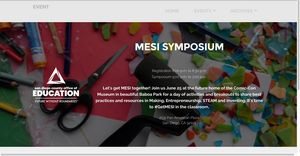
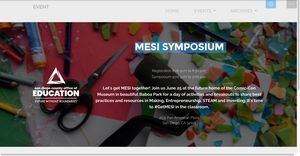
event link change

Changed region(s): [[0.42, 0.1795, 0.78, 0.359], [0.87, 0.0, 0.99, 0.0769]]

diff --git a/mesiwithus.html b/mesiwithus.html
@@ -25,7 +25,7 @@
   
 </head>
 <body>
-  <section id="ext_menu-w" data-rv-view="29">
+  <section id="ext_menu-w" data-rv-view="17">
 
     <nav class="navbar navbar-dropdown transparent navbar-fixed-top bg-color">
         <div class="container">
@@ -38,7 +38,7 @@
                         <div class="hamburger-icon"></div>
                     </button>
 
-                    <ul class="nav-dropdown collapse pull-xs-right nav navbar-nav navbar-toggleable-sm" id="exCollapsingNavbar"><li class="nav-item"><a class="nav-link link" href="index.html#msg-box5-q">HOME</a></li><li class="nav-item dropdown"><a class="nav-link link dropdown-toggle" href="index.html#features1-j" data-toggle="dropdown-submenu" aria-expanded="false">EVENTS</a><div class="dropdown-menu"><a class="dropdown-item" href="mesisymposium.html" aria-expanded="false">MESI Symposium<br></a></div></li><li class="nav-item dropdown open"><a class="nav-link link dropdown-toggle" href="index.html#features1-j" aria-expanded="true" data-toggle="dropdown-submenu">ARCHIVES</a><div class="dropdown-menu"><a class="dropdown-item" href="mesiwithus.html" aria-expanded="false">Get MESI With US</a></div></li></ul>
+                    <ul class="nav-dropdown collapse pull-xs-right nav navbar-nav navbar-toggleable-sm" id="exCollapsingNavbar"><li class="nav-item"><a class="nav-link link" href="index.html#msg-box5-q">HOME</a></li><li class="nav-item dropdown open"><a class="nav-link link dropdown-toggle" href="index.html#features1-j" data-toggle="dropdown-submenu" aria-expanded="true">EVENTS</a><div class="dropdown-menu"><a class="dropdown-item" href="mesisymposium.html" aria-expanded="false">MESI Symposium<br></a></div></li><li class="nav-item dropdown"><a class="nav-link link dropdown-toggle" href="index.html#features1-j" aria-expanded="false" data-toggle="dropdown-submenu">ARCHIVES</a><div class="dropdown-menu"><a class="dropdown-item" href="mesiwithus.html" aria-expanded="false">Get MESI With US</a></div></li></ul>
                     <button hidden="" class="navbar-toggler navbar-close" type="button" data-toggle="collapse" data-target="#exCollapsingNavbar">
                         <div class="close-icon"></div>
                     </button>
@@ -51,7 +51,7 @@
 
 </section>
 
-<section class="engine"><a href="https://mobirise.info/k">develop your own website</a></section><section class="mbr-section mbr-section__container article mbr-after-navbar" id="header3-17" data-rv-view="24" style="background-color: rgb(255, 255, 255); padding-top: 20px; padding-bottom: 60px;">
+<section class="engine"><a href="https://mobirise.info/u">bootstrap html templates</a></section><section class="mbr-section mbr-section__container article mbr-after-navbar" id="header3-17" data-rv-view="12" style="background-color: rgb(255, 255, 255); padding-top: 20px; padding-bottom: 60px;">
     <div class="container">
         <div class="row">
             <div class="col-xs-12">
@@ -62,7 +62,7 @@
     </div>
 </section>
 
-<section class="mbr-section article mbr-parallax-background" id="msg-box8-1k" data-rv-view="26" style="background-image: url(assets/images/screen-shot-2019-02-19-at-11.54.38-am-600x409.png); padding-top: 120px; padding-bottom: 40px;">
+<section class="mbr-section article mbr-parallax-background" id="msg-box8-1k" data-rv-view="14" style="background-image: url(assets/images/screen-shot-2019-02-19-at-11.54.38-am-600x409.png); padding-top: 120px; padding-bottom: 40px;">
 
     <div class="mbr-overlay" style="opacity: 0.5; background-color: rgb(34, 34, 34);">
     </div>
@@ -78,7 +78,7 @@
 
 </section>
 
-<section class="mbr-section" id="msg-box4-1a" data-rv-view="33" style="background-color: rgb(242, 242, 242); padding-top: 40px; padding-bottom: 0px;">
+<section class="mbr-section" id="msg-box4-1a" data-rv-view="21" style="background-color: rgb(242, 242, 242); padding-top: 40px; padding-bottom: 0px;">
 
     
     <div class="container">
@@ -112,7 +112,7 @@
 
 </section>
 
-<section class="mbr-section" id="msg-box4-1b" data-rv-view="36" style="background-color: rgb(255, 255, 255); padding-top: 40px; padding-bottom: 40px;">
+<section class="mbr-section" id="msg-box4-1b" data-rv-view="24" style="background-color: rgb(255, 255, 255); padding-top: 40px; padding-bottom: 40px;">
 
     
     <div class="container">
@@ -146,7 +146,7 @@
 
 </section>
 
-<section class="mbr-section" id="msg-box4-1d" data-rv-view="39" style="background-color: rgb(242, 242, 242); padding-top: 40px; padding-bottom: 40px;">
+<section class="mbr-section" id="msg-box4-1d" data-rv-view="27" style="background-color: rgb(242, 242, 242); padding-top: 40px; padding-bottom: 40px;">
 
     
     <div class="container">
@@ -180,7 +180,7 @@
 
 </section>
 
-<section class="mbr-section" id="msg-box4-1c" data-rv-view="42" style="background-color: rgb(255, 255, 255); padding-top: 40px; padding-bottom: 40px;">
+<section class="mbr-section" id="msg-box4-1c" data-rv-view="30" style="background-color: rgb(255, 255, 255); padding-top: 40px; padding-bottom: 40px;">
 
     
     <div class="container">
@@ -214,7 +214,7 @@
 
 </section>
 
-<section class="mbr-section" id="msg-box4-1e" data-rv-view="45" style="background-color: rgb(239, 239, 239); padding-top: 40px; padding-bottom: 40px;">
+<section class="mbr-section" id="msg-box4-1e" data-rv-view="33" style="background-color: rgb(239, 239, 239); padding-top: 40px; padding-bottom: 40px;">
 
     
     <div class="container">
@@ -248,7 +248,7 @@
 
 </section>
 
-<section class="mbr-section" id="msg-box4-1f" data-rv-view="48" style="background-color: rgb(255, 255, 255); padding-top: 40px; padding-bottom: 40px;">
+<section class="mbr-section" id="msg-box4-1f" data-rv-view="36" style="background-color: rgb(255, 255, 255); padding-top: 40px; padding-bottom: 40px;">
 
     
     <div class="container">
@@ -282,7 +282,7 @@
 
 </section>
 
-<section class="mbr-section" id="msg-box4-1g" data-rv-view="51" style="background-color: rgb(242, 242, 242); padding-top: 40px; padding-bottom: 40px;">
+<section class="mbr-section" id="msg-box4-1g" data-rv-view="39" style="background-color: rgb(242, 242, 242); padding-top: 40px; padding-bottom: 40px;">
 
     
     <div class="container">
@@ -316,7 +316,7 @@
 
 </section>
 
-<section class="mbr-section" id="msg-box4-1l" data-rv-view="54" style="background-color: rgb(255, 255, 255); padding-top: 40px; padding-bottom: 40px;">
+<section class="mbr-section" id="msg-box4-1l" data-rv-view="42" style="background-color: rgb(255, 255, 255); padding-top: 40px; padding-bottom: 40px;">
 
     
     <div class="container">
@@ -350,7 +350,7 @@
 
 </section>
 
-<section class="mbr-section" id="msg-box4-1m" data-rv-view="57" style="background-color: rgb(242, 242, 242); padding-top: 40px; padding-bottom: 40px;">
+<section class="mbr-section" id="msg-box4-1m" data-rv-view="45" style="background-color: rgb(242, 242, 242); padding-top: 40px; padding-bottom: 40px;">
 
     
     <div class="container">
@@ -384,7 +384,7 @@
 
 </section>
 
-<section class="mbr-section" id="msg-box4-1n" data-rv-view="60" style="background-color: rgb(255, 255, 255); padding-top: 40px; padding-bottom: 0px;">
+<section class="mbr-section" id="msg-box4-1n" data-rv-view="48" style="background-color: rgb(255, 255, 255); padding-top: 40px; padding-bottom: 0px;">
 
     
     <div class="container">
@@ -418,7 +418,7 @@
 
 </section>
 
-<section class="mbr-section mbr-section-md-padding" id="social-buttons3-19" data-rv-view="63" style="background-color: rgb(193, 193, 193); padding-top: 30px; padding-bottom: 30px;">
+<section class="mbr-section mbr-section-md-padding" id="social-buttons3-19" data-rv-view="51" style="background-color: rgb(193, 193, 193); padding-top: 30px; padding-bottom: 30px;">
     
     <div class="container">
         <div class="row">
@@ -446,7 +446,7 @@
     </div>
 </section>
 
-<footer class="mbr-small-footer mbr-section mbr-section-nopadding" id="footer1-x" data-rv-view="31" style="background-color: rgb(153, 180, 194); padding-top: 1.75rem; padding-bottom: 1.75rem;">
+<footer class="mbr-small-footer mbr-section mbr-section-nopadding" id="footer1-x" data-rv-view="19" style="background-color: rgb(153, 180, 194); padding-top: 1.75rem; padding-bottom: 1.75rem;">
     
     <div class="container text-xs-center">
         <p>The San Diego County Office of Education is committed to ensuring equal, fair, and meaningful access to employment and education services. SDCOE does not discriminate in its employment practices or educational programs and activities on the basis of race, color, national or ethnic origin, ancestry, age, religion or religious creed, marital status, pregnancy or parental status, physical or mental disability or handicap, sex or gender, gender/transgender identity and expression, sexual orientation, military or veteran status, political affiliation, genetic information, a perception of one or more of such characteristics, association with a person of group with one or more of these actual or perceived characteristics, or any other characteristic protected under applicable federal, state or local law as applicable to educational services and/or employment. More detailed SDCOE policies and regulations can be found at <a href="http://www.sdcoe.net/nondiscrimination" target="_blank">www.sdcoe.net/nondiscrimination.</a></p>

diff --git a/symposium.html b/symposium.html
@@ -26,7 +26,7 @@
   
 </head>
 <body>
-  <section id="ext_menu-1o" data-rv-view="17">
+  <section id="ext_menu-1o" data-rv-view="58">
 
     <nav class="navbar navbar-dropdown transparent navbar-fixed-top bg-color">
         <div class="container">
@@ -39,7 +39,7 @@
                         <div class="hamburger-icon"></div>
                     </button>
 
-                    <ul class="nav-dropdown collapse pull-xs-right nav navbar-nav navbar-toggleable-sm" id="exCollapsingNavbar"><li class="nav-item"><a class="nav-link link" href="index.html#msg-box5-q">HOME</a></li><li class="nav-item dropdown"><a class="nav-link link dropdown-toggle" href="index.html#features1-j" data-toggle="dropdown-submenu" aria-expanded="false">EVENTS</a><div class="dropdown-menu"><a class="dropdown-item" href="mesisymposium.html" aria-expanded="false">MESI Symposium<br></a></div></li><li class="nav-item dropdown open"><a class="nav-link link dropdown-toggle" href="index.html#features1-j" aria-expanded="true" data-toggle="dropdown-submenu">ARCHIVES</a><div class="dropdown-menu"><a class="dropdown-item" href="mesiwithus.html" aria-expanded="false">Get MESI With US</a></div></li></ul>
+                    <ul class="nav-dropdown collapse pull-xs-right nav navbar-nav navbar-toggleable-sm" id="exCollapsingNavbar"><li class="nav-item"><a class="nav-link link" href="index.html#msg-box5-q">HOME</a></li><li class="nav-item dropdown open"><a class="nav-link link dropdown-toggle" href="index.html#features1-j" data-toggle="dropdown-submenu" aria-expanded="true">EVENTS</a><div class="dropdown-menu"><a class="dropdown-item" href="mesisymposium.html" aria-expanded="false">MESI Symposium<br></a></div></li><li class="nav-item dropdown"><a class="nav-link link dropdown-toggle" href="index.html#features1-j" aria-expanded="false" data-toggle="dropdown-submenu">ARCHIVES</a><div class="dropdown-menu"><a class="dropdown-item" href="mesiwithus.html" aria-expanded="false">Get MESI With US</a></div></li></ul>
                     <button hidden="" class="navbar-toggler navbar-close" type="button" data-toggle="collapse" data-target="#exCollapsingNavbar">
                         <div class="close-icon"></div>
                     </button>
@@ -52,7 +52,7 @@
 
 </section>
 
-<section class="engine"><a href="https://mobirise.info">Mobirise</a></section><section class="mbr-section mbr-section__container article mbr-after-navbar" id="header3-1u" data-rv-view="12" style="background-color: rgb(255, 255, 255); padding-top: 20px; padding-bottom: 60px;">
+<section class="engine"><a href="https://mobirise.info/n">free simple site templates</a></section><section class="mbr-section mbr-section__container article mbr-after-navbar" id="header3-1u" data-rv-view="53" style="background-color: rgb(255, 255, 255); padding-top: 20px; padding-bottom: 60px;">
     <div class="container">
         <div class="row">
             <div class="col-xs-12">
@@ -63,7 +63,7 @@
     </div>
 </section>
 
-<section class="mbr-section mbr-parallax-background" id="msg-box6-1w" data-rv-view="14" style="background-image: url(assets/images/workspace-1-599x450.jpg); padding-top: 40px; padding-bottom: 40px;">
+<section class="mbr-section mbr-parallax-background" id="msg-box6-1w" data-rv-view="55" style="background-image: url(assets/images/workspace-1-599x450.jpg); padding-top: 40px; padding-bottom: 40px;">
 
     <div class="mbr-overlay" style="opacity: 0.5; background-color: rgb(0, 0, 0);">
     </div>
@@ -98,7 +98,7 @@
 
 </section>
 
-<section class="mbr-cards mbr-section mbr-section-nopadding" id="features6-27" data-rv-view="19" style="background-color: rgb(239, 239, 239);">
+<section class="mbr-cards mbr-section mbr-section-nopadding" id="features6-27" data-rv-view="60" style="background-color: rgb(239, 239, 239);">
 
     
 
@@ -160,7 +160,7 @@
     </div>
 </section>
 
-<footer class="mbr-small-footer mbr-section mbr-section-nopadding" id="footer1-1p" data-rv-view="22" style="background-color: rgb(153, 180, 194); padding-top: 1.75rem; padding-bottom: 1.75rem;">
+<footer class="mbr-small-footer mbr-section mbr-section-nopadding" id="footer1-1p" data-rv-view="63" style="background-color: rgb(153, 180, 194); padding-top: 1.75rem; padding-bottom: 1.75rem;">
     
     <div class="container text-xs-center">
         <p>The San Diego County Office of Education is committed to ensuring equal, fair, and meaningful access to employment and education services. SDCOE does not discriminate in its employment practices or educational programs and activities on the basis of race, color, national or ethnic origin, ancestry, age, religion or religious creed, marital status, pregnancy or parental status, physical or mental disability or handicap, sex or gender, gender/transgender identity and expression, sexual orientation, military or veteran status, political affiliation, genetic information, a perception of one or more of such characteristics, association with a person of group with one or more of these actual or perceived characteristics, or any other characteristic protected under applicable federal, state or local law as applicable to educational services and/or employment. More detailed SDCOE policies and regulations can be found at <a href="http://www.sdcoe.net/nondiscrimination" target="_blank">www.sdcoe.net/nondiscrimination.</a></p>

diff --git a/index.html b/index.html
@@ -37,7 +37,7 @@
                         <div class="hamburger-icon"></div>
                     </button>
 
-                    <ul class="nav-dropdown collapse pull-xs-right nav navbar-nav navbar-toggleable-sm" id="exCollapsingNavbar"><li class="nav-item"><a class="nav-link link" href="index.html#msg-box5-q">HOME</a></li><li class="nav-item dropdown"><a class="nav-link link dropdown-toggle" href="index.html#features1-j" data-toggle="dropdown-submenu" aria-expanded="false">EVENTS</a><div class="dropdown-menu"><a class="dropdown-item" href="mesisymposium.html" aria-expanded="false">MESI Symposium<br></a></div></li><li class="nav-item dropdown open"><a class="nav-link link dropdown-toggle" href="index.html#features1-j" aria-expanded="true" data-toggle="dropdown-submenu">ARCHIVES</a><div class="dropdown-menu"><a class="dropdown-item" href="mesiwithus.html" aria-expanded="false">Get MESI With US</a></div></li></ul>
+                    <ul class="nav-dropdown collapse pull-xs-right nav navbar-nav navbar-toggleable-sm" id="exCollapsingNavbar"><li class="nav-item"><a class="nav-link link" href="index.html#msg-box5-q">HOME</a></li><li class="nav-item dropdown open"><a class="nav-link link dropdown-toggle" href="index.html#features1-j" data-toggle="dropdown-submenu" aria-expanded="true">EVENTS</a><div class="dropdown-menu"><a class="dropdown-item" href="mesisymposium.html" aria-expanded="false">MESI Symposium<br></a></div></li><li class="nav-item dropdown"><a class="nav-link link dropdown-toggle" href="index.html#features1-j" aria-expanded="false" data-toggle="dropdown-submenu">ARCHIVES</a><div class="dropdown-menu"><a class="dropdown-item" href="mesiwithus.html" aria-expanded="false">Get MESI With US</a></div></li></ul>
                     <button hidden="" class="navbar-toggler navbar-close" type="button" data-toggle="collapse" data-target="#exCollapsingNavbar">
                         <div class="close-icon"></div>
                     </button>
@@ -50,7 +50,7 @@
 
 </section>
 
-<section class="engine"><a href="https://mobirise.info/l">free site templates</a></section><section class="mbr-section mbr-parallax-background mbr-after-navbar" id="msg-box5-26" data-rv-view="2" style="background-image: url(assets/images/sdcoeview-2000x1500.jpg); padding-top: 200px; padding-bottom: 120px;">
+<section class="engine"><a href="https://mobirise.info/r">bootstrap template</a></section><section class="mbr-section mbr-parallax-background mbr-after-navbar" id="msg-box5-26" data-rv-view="2" style="background-image: url(assets/images/sdcoeview-2000x1500.jpg); padding-top: 200px; padding-bottom: 120px;">
 
     <div class="mbr-overlay" style="opacity: 0.5; background-color: rgb(0, 0, 0);">
     </div>
